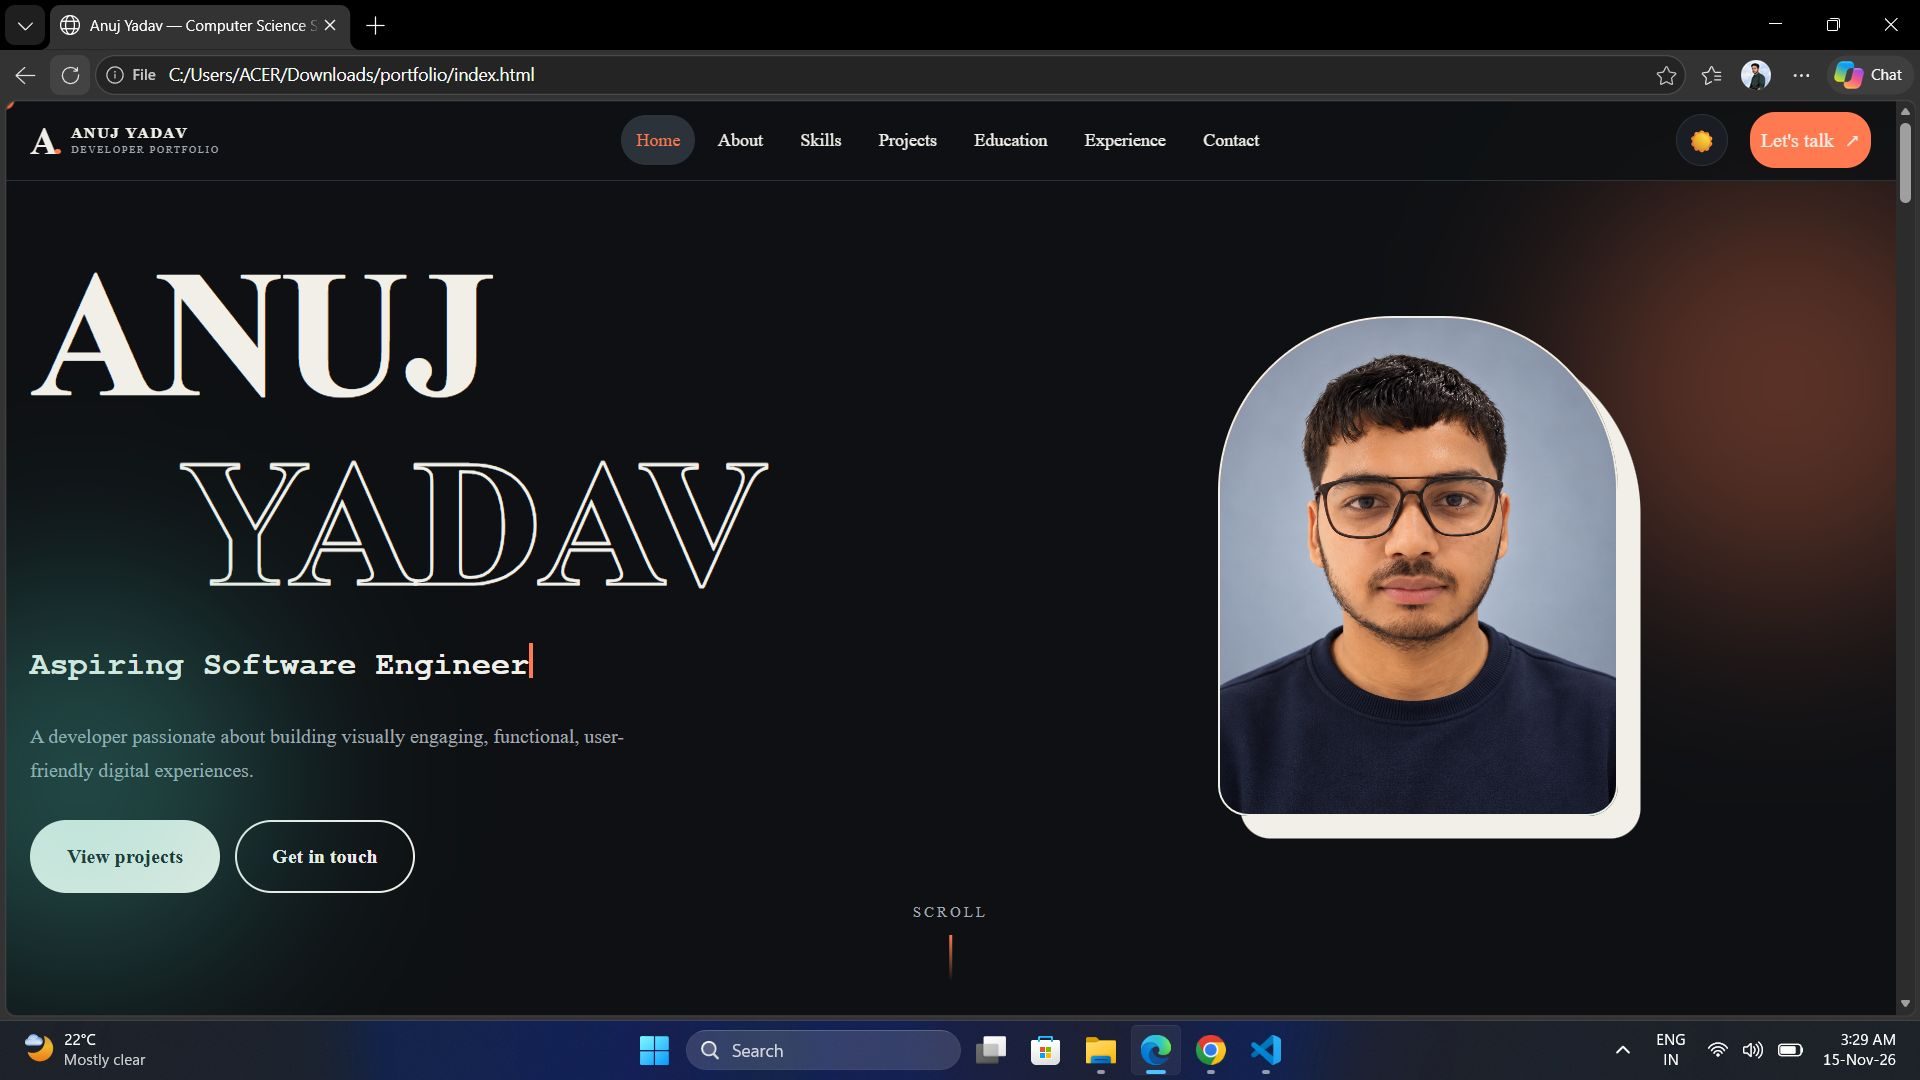
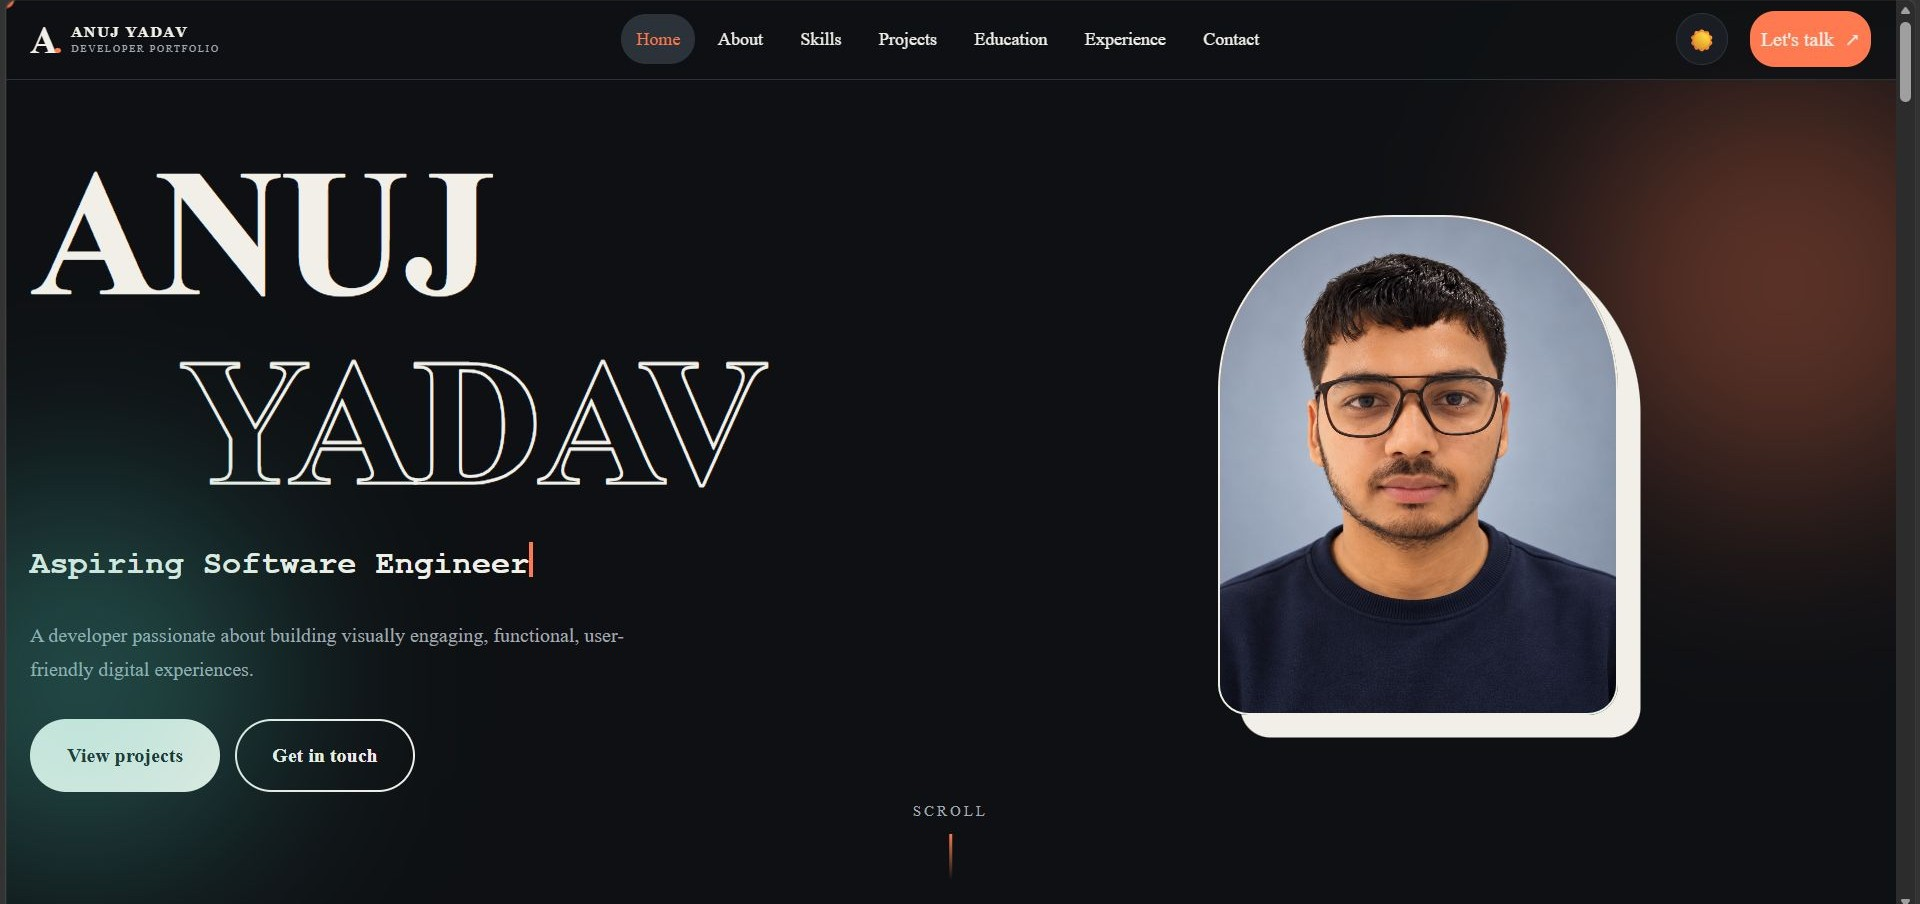
Update meta & email

diff --git a/index.html b/index.html
@@ -6,7 +6,19 @@
   <meta name="viewport" content="width=device-width, initial-scale=1, viewport-fit=cover">
   <title>Anuj Yadav | Portfolio</title>
   <meta name="description"
-    content="AnujYadav-Portfolio, Anuj Yadav | Portfolio, AnujYadav, Portfolio of Anuj Yadav, intern BtPS, diploma student, Government Polytechnic College, Softpro India, Aspiring Software Engineer, CSE student and developer: HR Synergy, Medicare website and Flipkart clone.">
+    content="Hi, I am Anuj Yadav. Welcome to my personal portfolio website featuring a complete showcase of my software development projects, technical work, and ongoing journey in engineering. Explore my code, tech stack, and recent creations all in one place.">
+
+  <meta name="keywords"
+    content="Anuj Yadav, Portfolio, Software Developer, Web Development, Software Engineer, Projects, AnujYadav-Portfolio, Anuj Yadav | Portfolio, AnujYadav, Portfolio of Anuj Yadav, intern BtPS, diploma student, Government Polytechnic College, Softpro India, Aspiring Software Engineer, CSE student and developer: HR Synergy, Medicare website and Flipkart clone">
+
+  <meta name="robots" content="index, follow">
+
+  <meta property="og:title" content="Anuj Yadav | Portfolio">
+  <meta property="og:description"
+    content="Hi, I am Anuj Yadav. Explore my personal portfolio showcasing my software development projects, technical work, and development journey.">
+  <meta property="og:image" content="https://anujyadav.vercel.app/assets/images/portfolio.jpg">
+  <meta property="og:url" content="https://anujyadav.vercel.app">
+  <meta property="og:type" content="website">
 
   <link rel="icon" type="image/png" href="assets/images/favicon.png">
   <link rel="stylesheet" href="css/style.css">

diff --git a/js/main.js b/js/main.js
@@ -1,5 +1,5 @@
 const CONFIG = {
-  // email: "",
+  email: "anujyadav.cs@gmail.com",
   github: "https://github.com/Er-AnujYadav",
   linkedin: "https://www.linkedin.com/in/er-anujyadav",
   photo: "assets/images/professional.jpg",
@@ -12,7 +12,7 @@ const CONFIG = {
 };
 
 const getIcon = (name) => {
-  // if(name === "Email") return '<i class="fa-solid fa-envelope"></i>';
+  if(name === "Email") return '<i class="fa-solid fa-envelope"></i>';
   if (name === "LinkedIn") return '<i class="fa-brands fa-linkedin"></i>';
   if (name === "GitHub") return '<i class="fa-brands fa-github"></i>';
   return "";
@@ -117,7 +117,7 @@ $("#skillgrid").innerHTML = Object.entries(skills)
 /* ------------------contact---------------- */
 
 const c = [
-  // ["Email", CONFIG.email && "mailto:" + CONFIG.email],
+  ["Email", CONFIG.email && "mailto:" + CONFIG.email],
   ["LinkedIn", CONFIG.linkedin],
   ["GitHub", CONFIG.github],
 ];
@@ -131,7 +131,7 @@ $("#clinks").innerHTML = c
 $("#yr").textContent = new Date().getFullYear();
 
 const ftl = [
-  // ["Email", CONFIG.email && "mailto:" + CONFIG.email],
+  ["Email", CONFIG.email && "mailto:" + CONFIG.email],
   ["LinkedIn", CONFIG.linkedin],
   ["GitHub", CONFIG.github],
 ];
